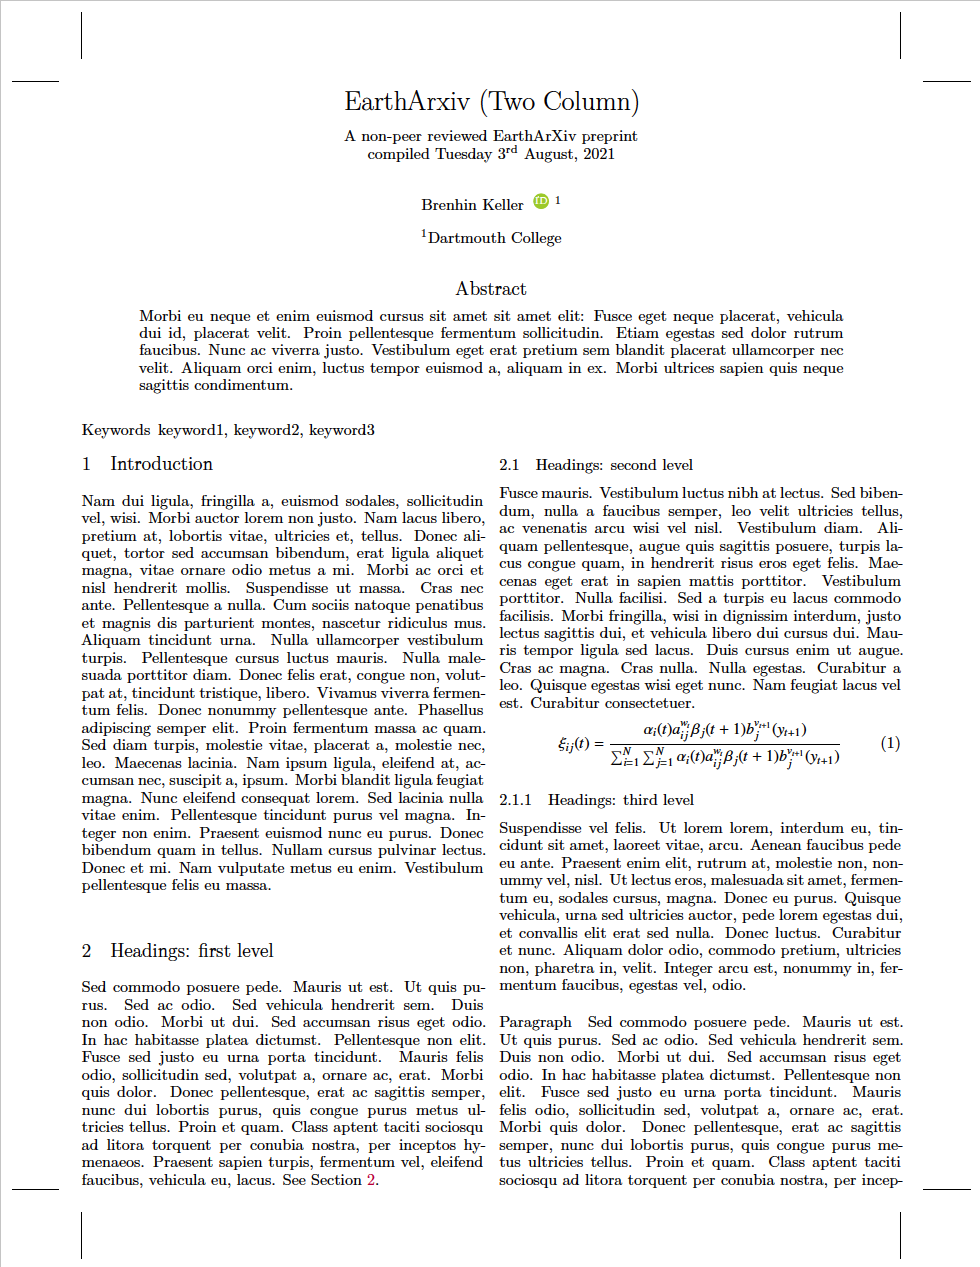
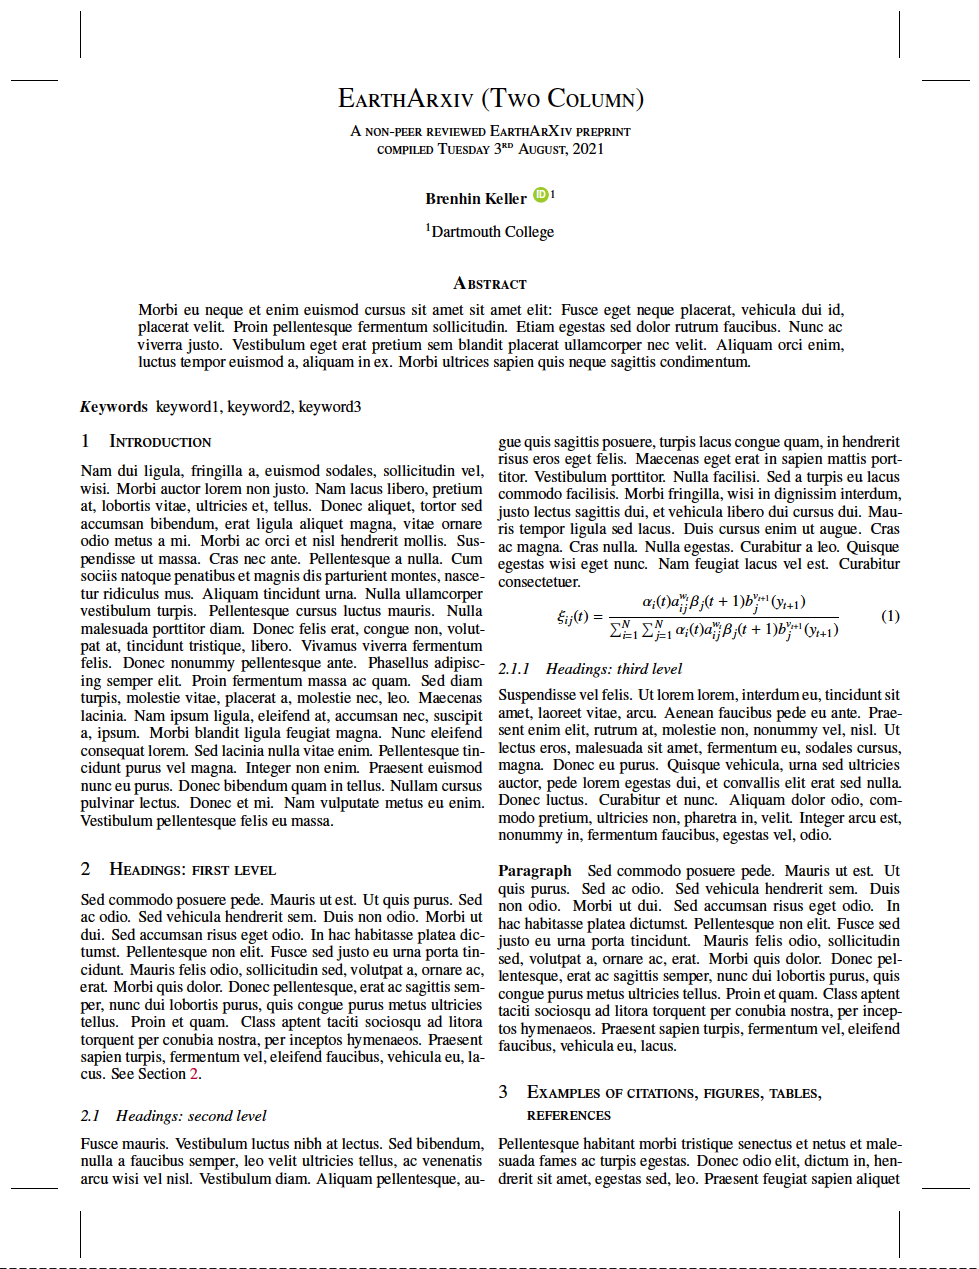
fixed options, fixed last error

Changed region(s): [[0.0613, 0.0616, 0.9193, 0.9542]]

diff --git a/latex/eartharxiv_two_column/template.tex b/latex/eartharxiv_two_column/template.tex
@@ -1,6 +1,6 @@
 \documentclass[twocolumn, switch]{article} % Method A for two-column formatting
-\PassOptionsToPackage{natbib}{numbers,square}
-\PassOptionsToPackage{fontenc}{T1} % use 8-bit T1 fonts
+\PassOptionsToPackage{numbers,square}{natbib}
+\PassOptionsToPackage{T1}{fontenc} % use 8-bit T1 fonts
 
 \usepackage{eartharxiv}
 [# if lipsum #]\usepackage{lipsum}[# endif #]
@@ -98,10 +98,10 @@ anchorcolor = black}
 [# endif #]
 
 [# if doc.tags #]
-\keywords{[-", ".join(doc.tags)-]}\\
+\keywords{[-", ".join(doc.tags)-]}
 [# endif #]
 
-\vspace{0.35cm}
+\vspace{0.5cm}
 
   \end{@twocolumnfalse} % Method A for two-column formatting
 ] % Method A for two-column formatting

diff --git a/latex/eartharxiv_two_column/PORT.md b/latex/eartharxiv_two_column/PORT.md
@@ -3,7 +3,7 @@
 Note: This template is based on the `arxiv_two_column` template. Any changes to that template should be updated here too.
 In addition the following porting steps were made:
 
-- Changes bibliography style to `Geology`
+- Changes bibliography style to `AGU`
 - Updated the header to comply with EarthArxiv requirements: "non-peer reviewed EarthArXiv preprint"
   - renamed `preprint.sty` to `eartharxiv.sty`
   - modified header to include the required text
